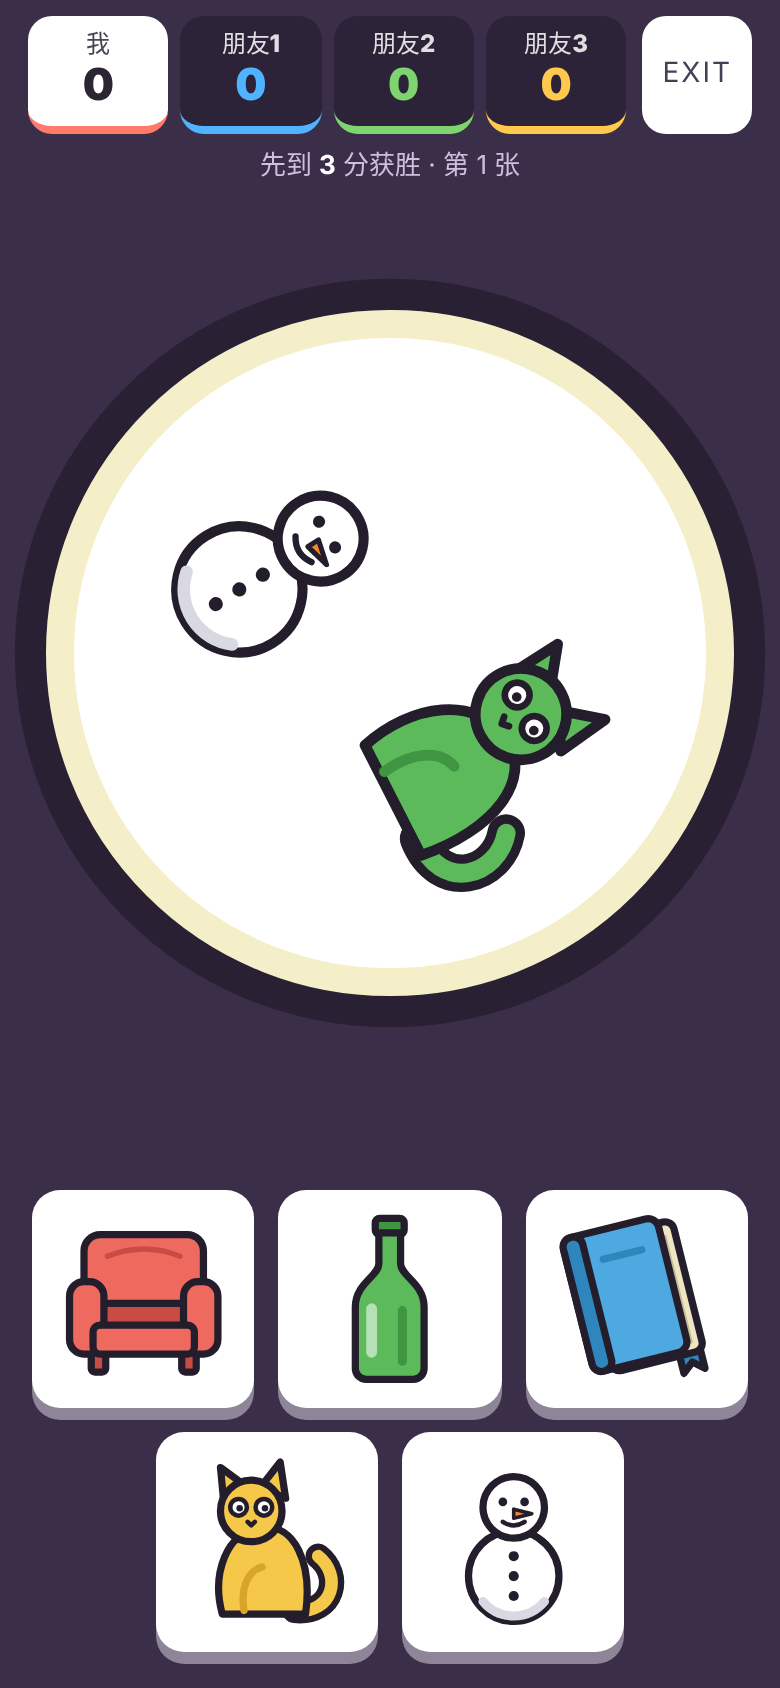
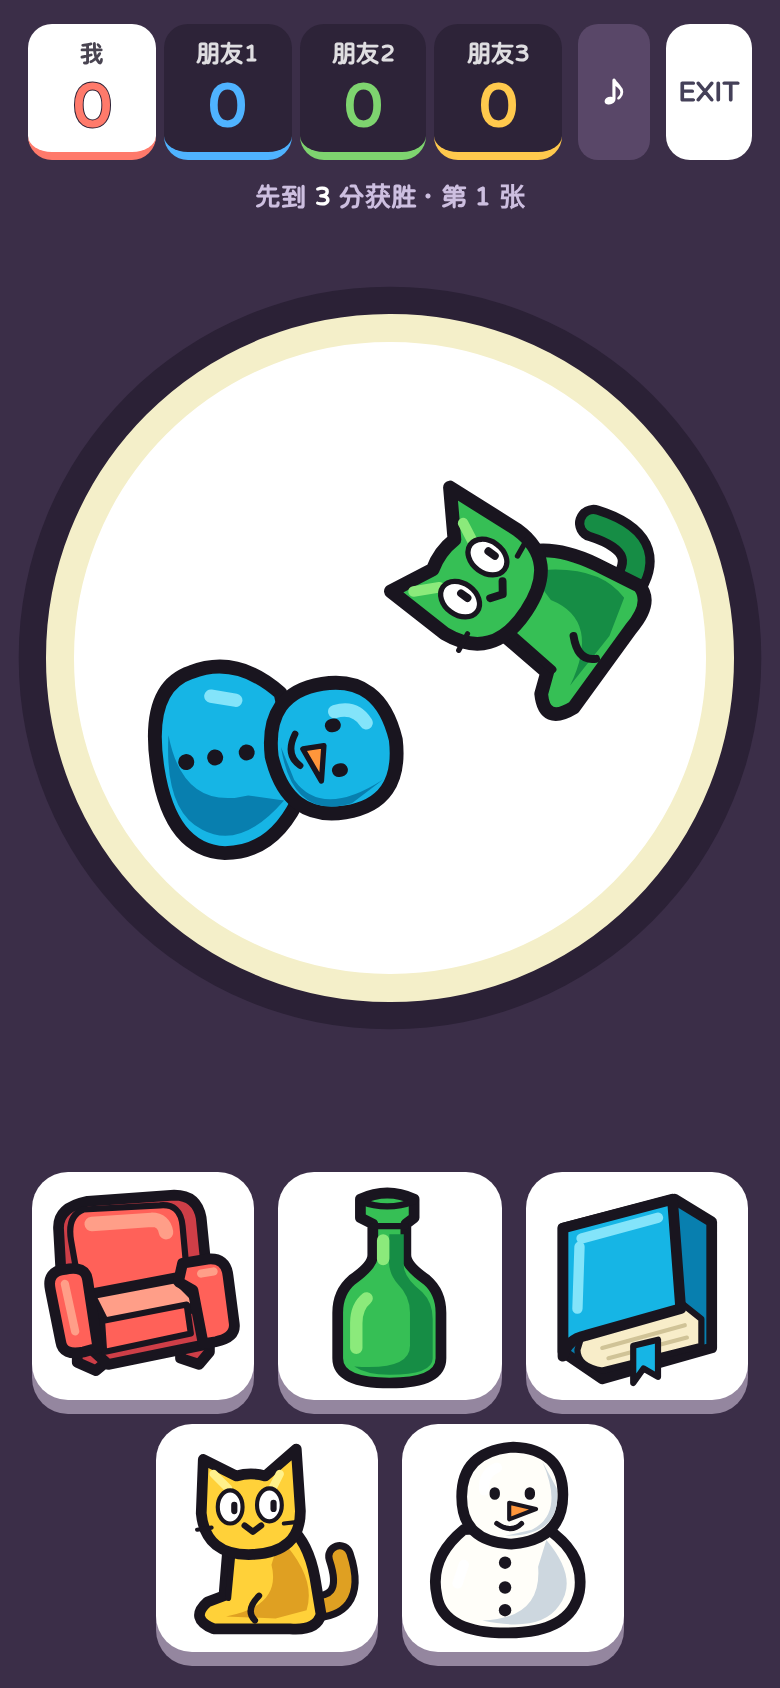
眼疾手快：圆盘里两个物品互不遮挡，物品框统一为圆盘的 44%
- 引擎导出 ITEM_SIZE，中心距离 ≥ 一个物品宽；新增测试
- 出界测试改为按物品画面（方框内切圆）判断

Claude-Session: https://claude.ai/code/session_017T99p3g9XCa2BV13cwbq37

diff --git a/packages/reflex-race/test/engine.test.ts b/packages/reflex-race/test/engine.test.ts
@@ -1,5 +1,6 @@
 import { describe, expect, it } from "vitest";
 import {
+  ITEM_SIZE,
   createRRGame,
   DEFAULT_TIMING,
   reduceRR,
@@ -56,22 +57,23 @@ describe("出题", () => {
     expect([...kinds].sort()).toEqual(["match", "missing"]);
     expect(answers.size).toBe(5);
   });
+  it("两个物品互不遮挡：中心距离不小于一个物品宽", () => {
+    for (let seed = 1; seed <= 1000; seed++) {
+      const [a, b] = game(seed).card.items;
+      expect(Math.hypot(a.x - b.x, a.y - b.y)).toBeGreaterThanOrEqual(
+        ITEM_SIZE,
+      );
+    }
+  });
   it("同一个种子出同样的题（服务器重启可以重放）", () => {
     expect(game(9).card).toEqual(game(9).card);
   });
-  it("放大后的物品即使旋转，整个 SVG 方框也留在白色圆盘内", () => {
-    for (let seed = 1; seed <= 1000; seed++) {
-      for (const item of game(seed).card.items) {
-        const half = (0.49 * item.scale) / 2;
-        const a = (item.rot * Math.PI) / 180;
-        for (const x of [-half, half])
-          for (const y of [-half, half]) {
-            const px = item.x - 0.5 + x * Math.cos(a) - y * Math.sin(a);
-            const py = item.y - 0.5 + x * Math.sin(a) + y * Math.cos(a);
-            expect(Math.hypot(px, py)).toBeLessThan(0.5);
-          }
-      }
-    }
+  it("物品画面（方框内切圆，四角是空白）任意旋转都留在白色圆盘内", () => {
+    for (let seed = 1; seed <= 1000; seed++)
+      for (const item of game(seed).card.items)
+        expect(
+          Math.hypot(item.x - 0.5, item.y - 0.5) + (ITEM_SIZE * item.scale) / 2,
+        ).toBeLessThan(0.48);
   });
 });
 

diff --git a/packages/reflex-race/src/engine.ts b/packages/reflex-race/src/engine.ts
@@ -56,6 +56,8 @@ export const DEFAULT_TIMING: RRTiming = {
   cardMs: 15_000,
   revealMs: 1800,
 };
+/** 圆盘中每个物品方框的宽度（占圆盘直径的比例），界面 CSS 与此一致 */
+export const ITEM_SIZE = 0.44;
 export const MIN_PLAYERS = 2;
 export const MAX_PLAYERS = 6;
 export const MIN_TARGET = 1;
@@ -171,9 +173,10 @@ export function makeCard(r: Rand): RRCard {
     ];
   }
   if (r.f() < 0.5) pairs.reverse();
-  // 两个物品放在圆心两侧，随机角度与旋转（和参考截图一样歪歪斜斜）
+  // 两个物品放在圆心两侧，随机角度与旋转（和参考截图一样歪歪斜斜）；
+  // 物品框宽 = 圆盘的 ITEM_SIZE，两者中心至少相隔一个物品宽，互不遮挡
   const theta = r.f() * Math.PI * 2;
-  const dist = 0.15 + r.f() * 0.01;
+  const dist = 0.235 + r.f() * 0.01;
   const items = pairs.map(([obj, color], i) => {
     const t = theta + i * Math.PI + (r.f() - 0.5) * 0.5;
     return {

diff --git a/apps/web/src/rr/rr.css b/apps/web/src/rr/rr.css
@@ -803,7 +803,8 @@
   box-shadow: 0 0 0 min(3.5vw, 17px) #2b2136;
 }
 .rr-item {
-  width: 49%;
+  /* 与引擎 ITEM_SIZE 一致：两个物品各自完整、互不遮挡 */
+  width: 44%;
 }
 .rr-items {
   animation: rr-snap 0.15s cubic-bezier(0.2, 0.8, 0.3, 1.3);
